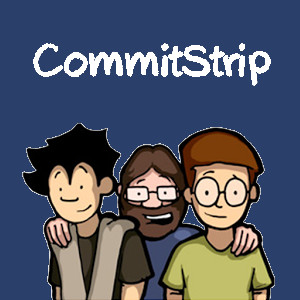
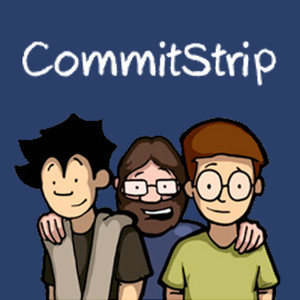
Update cover of CommitStrip comic
https://lh5.ggpht.com/WDlXT3Epj4ILlkjMknqI9GPnx08oYXgNwS19CL17hl3H3B2-oLZEVBz_kr0zkgIgm2g=w300
http://www.commitstrip.com/wp-content/themes/krds_blog/images/logo.png

Changed region(s): [[0.03, 0.36, 0.96, 1.0], [0.06, 0.12, 0.93, 0.3]]

diff --git a/src/Comics/CommitStrip.cpp b/src/Comics/CommitStrip.cpp
@@ -16,7 +16,7 @@ CommitStrip::CommitStrip(QObject *parent) :
 {
     m_info.id             = QString("commitstrip");
     m_info.name           = QString("CommitStrip");
-    m_info.color          = QColor(43, 63, 107);
+    m_info.color          = QColor(42, 63, 106);
     m_info.authors        = QStringList() << "Etienne Issartial" << "Thomas Gx";
     m_info.homepage       = QUrl("http://www.commitstrip.com/");
     m_info.country        = QLocale::France;
